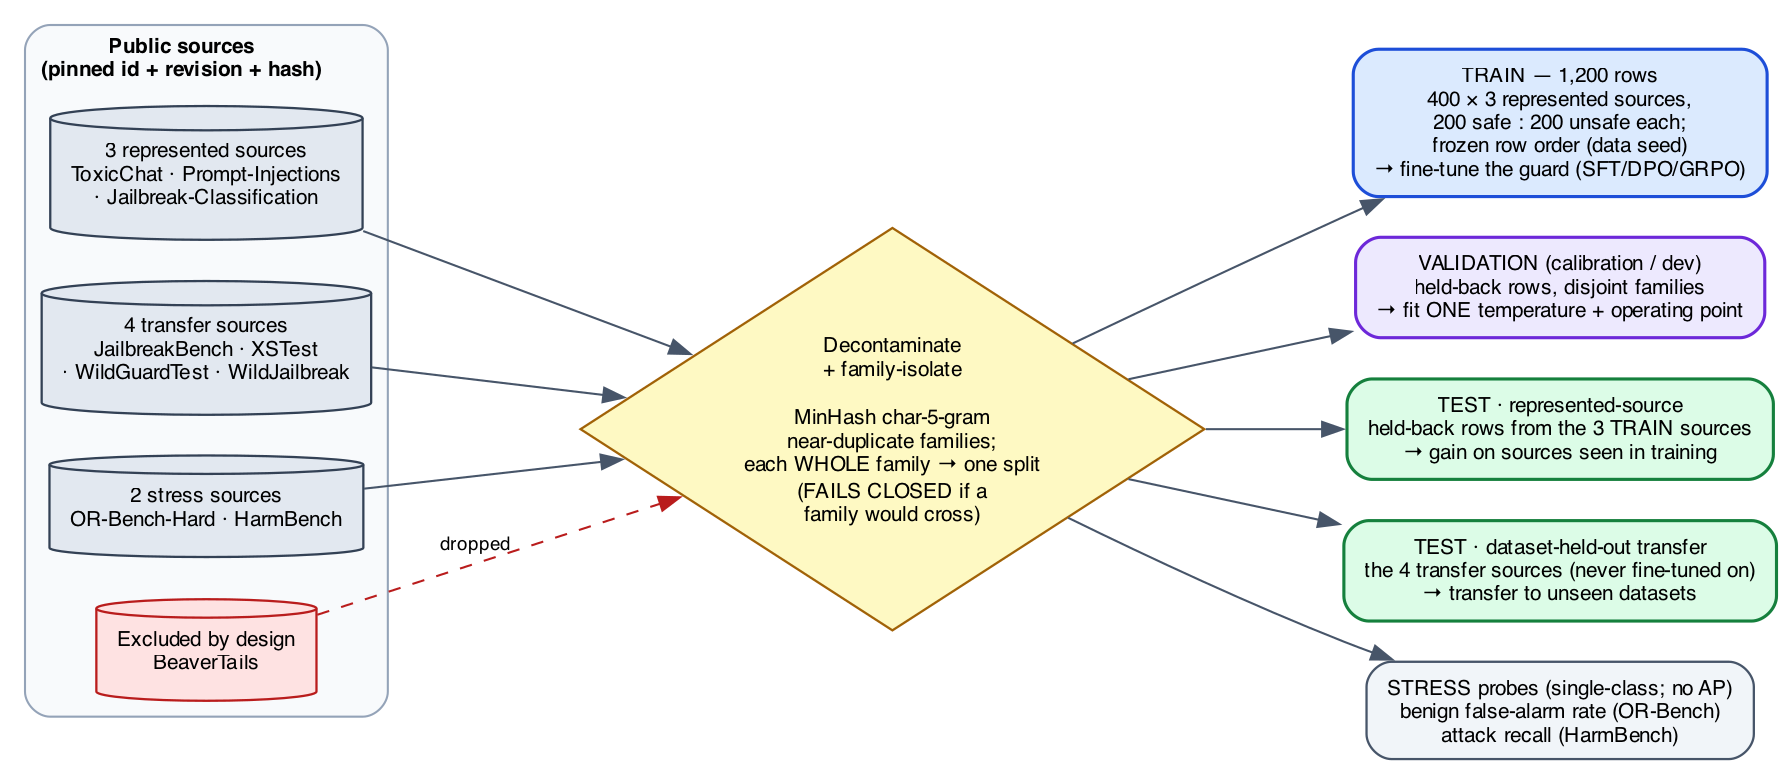
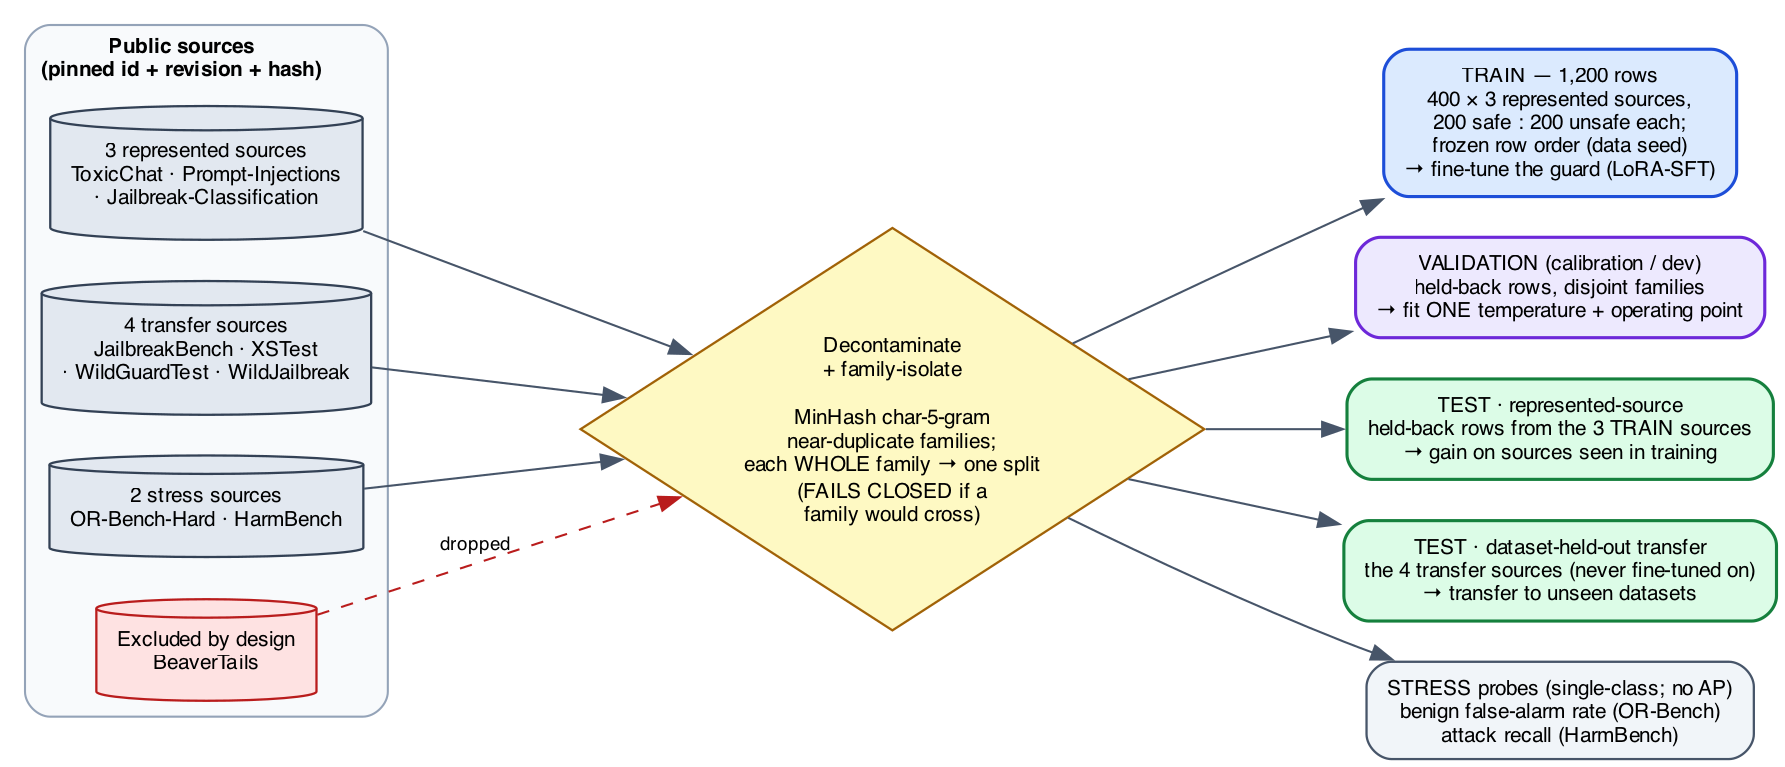
paper: apply external-review fixes (factual errors, overstated claims, transparency)
Cross-checked two independent model reviews against the data/tables and applied
every verified point (deferring only items needing new compute/data).

Factual errors (confirmed against committed tables, then fixed):
- Seed membership: the 5 uniform-gain seeds are 4 SmolLM2 + Qwen2.5 s42 (not
  "the SmolLM2 seeds"); SmolLM2 s46 specializes. Corrected in the plane text and
  the attractor box, which now notes 2/20 seeds cross the checkpoint boundary.
- Mortgage "AP.D at or above AP.G" is false for Qwen3-4B (AP.G=1.000) -> "for
  three of the four checkpoints."
- Stale draft leftovers: "Acts III and IV" -> "II and III"; act3 subsection
  "what Act III does not establish" -> "Act II"; "four acts" -> "three";
  flowchart "SFT/DPO/GRPO" -> "LoRA-SFT"; "four literatures" -> "five".
- Rendered "Paper A/Paper B" -> "Act I/II" (repro prose, latency caption,
  availability paragraph).

Overstated claims hedged:
- Abstract: "fully reproducible" -> "reproducible"; "pulls every model" -> "each
  model on this panel"; composition "for free" -> "without retraining (second
  pass)"; "general guards" -> "instruction models used zero-shot as guards";
  ExpGuard winner noted as CI-tied with Qwen3-4B.
- RQ3 reworded to what is tested (zero-shot domain coverage, not tuned-guard
  survival). Contribution 3: mechanism "made explicit" -> SFT+SFT control +
  candidate mechanism, motivation not proof. Label-noise 1.3-eta marked a rule
[…]

Changed region(s): [[0.7395, 0.06, 1.0, 0.2699]]

diff --git a/papers/unified-report/unified_report.tex b/papers/unified-report/unified_report.tex
@@ -82,7 +82,7 @@ decays under sub-standard-deviation drift; and at realistic ($\sim\!1\%$) preval
 and the very \emph{ranking} of guards reorders.
 
 \smallskip
-\noindent\textbf{What we propose.} A disciplined, fully reproducible way to measure what a guard's
+\noindent\textbf{What we propose.} A disciplined, reproducible way to measure what a guard's
 fine-tune actually bought --- and to choose guards for regulated products. On one fixed panel of four
 compact checkpoints (Qwen2.5-1.5B, SmolLM2-1.7B, SmolLM3-3B, Qwen3-4B) we compare each guard only against
 its \emph{own} pre-tuning base on identical data (so a change is attributable to the fine-tune, not to a
@@ -95,10 +95,12 @@ expert-labeled finance/health/law set (ExpGuard, 2{,}275 rows).
 \smallskip
 \noindent\textbf{What we find.} Fine-tuning \emph{specializes} but does not transfer: it lifts
 familiar-data ranking to a near-common ceiling ($\approx\!0.98$; $\RepDelta$ on average) yet changes
-held-out transfer by only $\TransferDelta$ on average --- an \emph{attractor} that pulls every model to a
-benchmark-fixed endpoint, so ``stronger bases specialize more'' is arithmetic, not skill. Composition
-recovers much of the lost transfer for free ($\PilotTransferDeltaSFT$ over the fine-tune). And a
-general-safety score does not cover domain compliance: general guards rank mortgage violations only
+held-out transfer by only $\TransferDelta$ on average --- on this four-checkpoint panel an \emph{attractor}
+pulls each model toward a benchmark-fixed endpoint, so ``stronger bases specialize more'' is largely
+arithmetic, not skill. Composition recovers much of the lost transfer without retraining
+($\PilotTransferDeltaSFT$ over the fine-tune, at the cost of a second inference pass). And a
+general-safety score does not cover domain compliance: general-purpose instruction models, used zero-shot as
+guards, rank mortgage violations only
 moderately and their fairness varies widely, and the top-ranked finance/health/law guard (SmolLM3-3B at
 AP $0.956$, statistically tied with the larger Qwen3-4B) is \emph{not} the largest model and \emph{not} the
 guard the mortgage benchmark prefers --- the winner flips with the benchmark.
@@ -160,7 +162,7 @@ verdict} --- and three questions on a single shared panel of checkpoints:
 \begin{enumerate}[leftmargin=1.6em,itemsep=1pt]
   \item \textbf{Does fine-tuning transfer?} (\Cref{sec:actI}) --- or does the guard specialize to its training sources?
   \item \textbf{Can we recover transfer without retraining?} (\Cref{sec:actIII}) --- by composing base $+$ adapter.
-  \item \textbf{Does any of it survive a change of domain?} (\Cref{sec:actIV}) --- across law, finance, health, and mortgage.
+  \item \textbf{Does a general-safety score cover a regulated domain?} (\Cref{sec:actIV}) --- evaluated \emph{zero-shot} across law, finance, health, and mortgage.
 \end{enumerate}
 
 \paragraph{What is new here.} Prior work shows fine-tuning can weaken safety behavior
@@ -173,11 +175,12 @@ domains. Concretely, the novel contributions are:
 \begin{enumerate}[leftmargin=1.7em,itemsep=1pt]
   \item \textbf{A paired estimand} that cleanly separates represented-source gain from held-out transfer,
   with a fixed-panel hierarchical bootstrap (\Cref{sec:actI}).
-  \item \textbf{The ``attractor'' finding:} SFT drives every checkpoint to a benchmark-fixed endpoint, so
-  the popular reading ``stronger bases specialize more'' is arithmetic; the sharper, falsifiable claim is
-  \emph{endpoint invariance} (\Cref{sec:actI-coupling}).
-  \item \textbf{A retraining-free composition operator} that recovers transfer as an ensemble diversity
-  gain, with the mechanism (base-correlated adapter errors) made explicit (\Cref{sec:actIII}).
+  \item \textbf{The ``attractor'' finding:} on this panel SFT drives each checkpoint toward a benchmark-fixed
+  endpoint, so the popular reading ``stronger bases specialize more'' is largely arithmetic; the sharper,
+  falsifiable claim is \emph{endpoint invariance} (\Cref{sec:actI-coupling}).
+  \item \textbf{A retraining-free composition operator} that recovers transfer, with an equal-cost SFT+SFT
+  control isolating the base's contribution (\Cref{tab:sftsft}) and a candidate diversity mechanism
+  (base-correlated adapter errors) --- reported as motivation, not proof (\Cref{sec:actIII}).
   \item \textbf{A dual-labeled, HMDA-grounded mortgage benchmark} ($G\times D$) with a protected-class
   fairness-invariance gate, plus an external, expert-annotated finance/health/law replication
   (\Cref{sec:actIV}).
@@ -265,7 +268,7 @@ and benchmark rank are distinct axes. AP is shown on a zoomed $[0.80,1.00]$ scal
 \label{sec:synthesis}
 The three acts are one lesson. A guard's benchmark score is co-produced by the benchmark: SFT buys
 represented-source ranking, not transfer (Act~I); keeping the base in an output-space average
-\emph{recovers} some transfer for free of retraining, though not a threshold (Act~II); and a change of
+\emph{recovers} some transfer without retraining (at a second inference pass), though not a threshold (Act~II); and a change of
 domain can hide the violation entirely, so regulated domains need domain-grounded evaluation and a
 fairness gate (Act~III).
 The recurring cast makes it concrete: Qwen3-4B, the strongest base, specializes the most on transfer,
@@ -342,22 +345,32 @@ Operational coupling & self-contained; pinned, versioned, auditable in-house & e
 \section{Reproducibility}
 \label{sec:repro}
 Every number above is \code{\textbackslash input} from a committed generated table bound to a lock ---
-none is hand-typed. A single entry point, \code{make reproduce} (\code{papers/unified-report/reproduce.py}),
-regenerates all tables/figures from committed per-row scores by calling each study's analysis (Paper A in
-its lock-pinned env; Paper B, mortgage, and ExpGuard from committed scores), and asserts
-byte-identity with the committed report tables. It needs no GPU and no network; only re-training the
-guards or re-scoring the gated ExpGuard set requires a GPU / dataset access. Raw third-party rows are
-referenced by pinned identifier + revision + content hash, not redistributed.
+none is hand-typed. A single entry point, \code{make reproduce} (run in \code{papers/unified-report/}, which
+calls \code{reproduce.py}; distinct from the repo-root \code{make repro} that re-verifies the release cache),
+regenerates all tables/figures from committed per-row scores by calling each study's analysis (the Act~I
+specialization tables in a lock-pinned environment; the Act~II composition, mortgage, and ExpGuard tables
+from committed scores in any environment), and asserts byte-identity with the committed report tables.
 
-\paragraph{Code and data availability.} All code, data manifests, generated tables, and the frozen
-benchmark are public at \url{https://github.com/rrahimi-uci/guard-ranking-fragility}. The one-command
-pipeline is \code{papers/unified-report/reproduce.py} (\code{make reproduce}); the frozen, dual-labeled
-mortgage benchmark ships at \code{mortgage-benchmark/benchmark/v1\_hmda2022/} (994 rows,
+\paragraph{Three reproducibility tiers, kept distinct.} \textbf{(i) Analysis reproducibility} --- regenerating
+every table and figure from the committed per-row scores --- is what \code{make reproduce} verifies
+byte-for-byte, with no GPU and no network, and is the tier every number in this report meets.
+\textbf{(ii) Training/scoring reproducibility} --- re-deriving those per-row scores by training the $4\times5$
+adapters and rescoring --- requires a GPU and pinned model/data access (only re-scoring the gated ExpGuard
+set additionally needs dataset access). \textbf{(iii) Artifact-generation reproducibility} --- regenerating
+the mortgage benchmark itself --- is \emph{not} claimed: its LLM construction stages run at nonzero
+temperature and the set is intentionally frozen, so only its \emph{evaluation} reproduces, not its
+generation. Raw third-party rows are referenced by pinned identifier + revision + content hash, not
+redistributed.
+
+\paragraph{Code and data availability.} \begin{sloppypar}All code, data manifests, generated tables, and
+the frozen benchmark are public at \url{https://github.com/rrahimi-uci/guard-ranking-fragility}. The
+one-command pipeline is \code{papers/unified-report/reproduce.py} (\code{make reproduce}); the frozen,
+dual-labeled mortgage benchmark ships at \code{mortgage-benchmark/benchmark/v1\_hmda2022/} (994 rows,
 SHA-256-checksummed, with a text-free index); the committed per-row guard scores that regenerate every
-number live under \code{artifacts/} (Paper~A in \code{artifacts/paper\_a\_sft\_v2/}, the mortgage baseline
-in \code{mortgage-benchmark/out\_eval/}, and the finance/health/law scores in
+number live under \code{artifacts/} (the Act~I/II scores in \code{artifacts/paper\_a\_sft\_v2/}, the
+mortgage baseline in \code{mortgage-benchmark/out\_eval/}, and the finance/health/law scores in
 \code{artifacts/expguard\_external/}); and the figures are built by
-\code{papers/unified-report/figures/make\_figures.py}.
+\code{papers/unified-report/figures/make\_figures.py}.\end{sloppypar}
 
 \section{Conclusion}
 \label{sec:conclusion}

diff --git a/papers/unified-report/sections/act4-mortgage.tex b/papers/unified-report/sections/act4-mortgage.tex
@@ -157,9 +157,14 @@ follows mechanically, together with an \emph{action lattice} (the ordered menu o
 allow through warn to block) and a \emph{severity} grade.
 
 The honesty caveat is load-bearing and stated plainly: \textbf{these labels are policy-card-consistent,
-assigned by an LLM judge --- they are not SME-adjudicated.} All 24 cards remain unsigned, and judge
-agreement is measured as \emph{self-consistency} (re-running the same judge and checking it agrees with
-itself), not as a human inter-rater study.
+assigned by an LLM judge --- they are not SME-adjudicated.} The judge is run rubric-bound against the
+applicable cards at temperature~$0$ with a three-sample majority vote; all 24 cards remain unsigned, and
+judge agreement is measured as \emph{self-consistency} (re-running the same judge and checking it agrees
+with itself), not as a human inter-rater study. Two transparency gaps we flag rather than resolve here: the
+frozen artifact does not record the exact judge \emph{model and version}, so its
+possible model-family overlap with an evaluated checkpoint cannot be ruled out as a source of correlated
+blind spots; and per-label self-consistency \emph{counts} were not exported, so self-consistency is asserted,
+not tabulated.
 
 \begin{background}{Policy cards, ``SME,'' and Fleiss-\texorpdfstring{$\kappa$}{kappa} --- in plain words}
 A \emph{policy card} turns a slice of mortgage law into something a program can check: a plain
@@ -209,9 +214,10 @@ The gate is a single number, the mean absolute within-pair score gap:
 \label{eq:delta-context}
 \end{equation}
 where $\mathcal{P}$ is the set of protected pairs and $p(\cdot)$ is the guard's unsafe probability. The
-target is $\Delta_{\mathrm{context}}\approx 0$: a fair guard's score is \emph{invariant} to the
-protected token alone. A nonzero value means the protected word by itself is moving the guard --- the
-signature of disparate treatment in the screening layer. This gap also has a threshold-free reading:
+target is $\Delta_{\mathrm{context}}\approx 0$: an invariant guard's score does not move with the
+protected token alone. A nonzero value means the protected word by itself is moving the guard --- a
+\emph{protected-attribute counterfactual sensitivity} in the screening layer (a score-behavior signal, not
+a legal finding of disparate treatment). This gap also has a threshold-free reading:
 for one pair, $|p(x_a)-p(x_b)|$ is exactly the fraction of possible decision cutoffs at which the protected
 token \emph{alone} flips the verdict, so $\Delta_{\mathrm{context}}$ is the pair-averaged
 \emph{decision-flip rate} (the worst observed pair, $0.51$, flips on a majority of feasible operating
@@ -242,7 +248,8 @@ a domain-fine-tuned arm is future work.
 split (75 G0/D1, 6 G1, 3 protected pairs). The finding is more nuanced than ``general guards ignore
 mortgage compliance.'' \emph{Threshold-free}, the base guards rank $D$-violations only
 \textbf{moderately} well --- $\text{AP}\cdot D$ between $0.67$ and $0.85$, at or above their
-$\text{AP}\cdot G$. Soliciting discrimination or fraud reads as ``unsafe'' to a general instruction
+$\text{AP}\cdot G$ for three of the four checkpoints (Qwen3-4B is the exception, with $\text{AP}\cdot
+G=1.000$ off only $6$ $G$-positives --- a noisy small-sample value, see below). Soliciting discrimination or fraud reads as ``unsafe'' to a general instruction
 model even when it is not a jailbreak, so in practice \textbf{$G$ and $D$ are only \emph{partially}
 orthogonal}: strictly orthogonal would mean the general-safety label carries no information about the
 mortgage-policy label, and here they overlap more than that. But no guard reaches $\text{AP}\cdot D$

diff --git a/papers/unified-report/sections/act1.tex b/papers/unified-report/sections/act1.tex
@@ -126,8 +126,9 @@ change (vertical). Four quadrants have direct meaning: lower-right = represented
 upper-left = transfer-favoured. \SpecializationSeedCount{} of \TotalSeedCount{} guards land in the
 specialize quadrant, \UniformGainSeedCount{} in uniform gain, and \emph{none} in uniform loss or the
 transfer-favoured quadrant. So specialization is the dominant --- but not universal --- outcome: the
-five uniform-gain points are the SmolLM2 seeds, the one checkpoint weak enough on transfer to have room
-to improve there too. The absence of any uniform-loss point matters: SFT never simply degrades the
+five uniform-gain points are four of the five SmolLM2 seeds \emph{plus} Qwen2.5's seed~42 --- concentrated
+on the two checkpoints with the weakest base transfer, which have the most room to improve there (SmolLM2's
+remaining seed, 46, narrowly specializes at $-0.001$). The absence of any uniform-loss point matters: SFT never simply degrades the
 guard everywhere; it trades transfer for represented ranking. Per-seed values behind the plane are
 tabulated in \Cref{tab:seed-values}, and show the effect is stable within each checkpoint (e.g. every
 Qwen3-4B seed is a substantial transfer loss, every SmolLM2 seed a represented gain).
@@ -185,7 +186,7 @@ point plus single-class stress diagnostics (lower). Generated from the lock-boun
 Read together, the operating point says the specialized guard \emph{catches more of what it trained on,
 raises more false alarms on what it didn't, and misses more hard attacks}. A leaderboard number computed
 on represented sources would advertise only the first of these three. The threshold that looked safe in
-calibration is not the threshold you get in the field --- a theme Acts~III and~IV return to.
+calibration is not the threshold you get in the field --- a theme Acts~II and~III return to.
 \end{takeaway}
 
 \subsection{The attractor: post-SFT scores are benchmark-fixed, so ``stronger bases specialize more'' is arithmetic}
@@ -236,7 +237,9 @@ residual is exactly that approximation, made visible.
 
 \begin{background}{Why the represented ceiling is $\approx0.98$, not $1.0$ --- and why that helps the thesis}
 A perfect ranker cannot score AP $=1$ on a benchmark whose \emph{labels} are slightly noisy: a small rate
-$\eta$ of ambiguous or mislabeled rows caps the achievable AP at roughly $1-1.3\,\eta$. The observed common
+$\eta$ of ambiguous or mislabeled rows caps the achievable AP at roughly $1-1.3\,\eta$ (the coefficient
+$1.3$ is an order-of-magnitude rule of thumb, not derived here --- the exact factor depends on prevalence
+and on where mislabels fall in the ranking). The observed common
 ceiling $0.982$ is what you would see at $\eta\approx1.5\%$ label noise --- i.e.\ the ceiling would then be a
 property of the benchmark's \emph{labels}, not of the models. This is a \emph{hypothesis}, not a measured
 result: it is checkable by auditing the top-ranked ``false positives'' of the SFT guards --- under this
@@ -248,10 +251,13 @@ and is shared across checkpoints; the benchmark, not the model, sets the top of 
 \begin{takeaway}{How much to trust the ``base strength'' ordering}
 The apparent trend rests on \emph{four} checkpoints --- and because seeds within a checkpoint are highly
 correlated (every Qwen3-4B seed is negative, every SmolLM2 seed but one positive), the effective sample is
-$n=4$, not $20$. But the attractor turns the $15/20$ ``specialize'' count into a \emph{prediction} from a
+$n=4$, not $20$. But the attractor turns the checkpoint-level ``specialize'' pattern into a \emph{prediction} from a
 single constant: a checkpoint specializes exactly when its base transfer score exceeds the endpoint
-($\text{base}_T>A_T\approx0.81$), which selects Qwen2.5, SmolLM3 and Qwen3-4B (15 seeds) and leaves SmolLM2
-in uniform-gain (5 seeds) --- the split we observe. The sharper, falsifiable hypothesis to carry forward is
+($\text{base}_T>A_T\approx0.81$), which selects Qwen2.5, SmolLM3 and Qwen3-4B as specializers and leaves
+SmolLM2 in uniform-gain --- the checkpoint-mean split we observe, and a $15/5$ seed count. The match is at
+the checkpoint mean, not seed-perfect: two of the twenty seeds cross their checkpoint's boundary (Qwen2.5's
+seed~42 gains $+0.008$; SmolLM2's seed~46 loses $-0.001$), so the constant predicts the aggregate split
+rather than every individual seed. The sharper, falsifiable hypothesis to carry forward is
 therefore \emph{endpoint invariance} itself: any new $1.5$--$4$B instruct checkpoint tuned with this recipe
 should land near represented $0.98$ and transfer $0.81$ regardless of where its base started. One honest
 limit on this extrapolation: our four checkpoints are only \emph{two} lineages (two Qwen, two SmolLM), so

diff --git a/papers/unified-report/figures/make_figures.py b/papers/unified-report/figures/make_figures.py
@@ -239,17 +239,14 @@ def mortgage_baseline():
     ax1.set_title("Zero-shot ranking (AP)")
     # legend below ax1 so it clears the (2-line) guard labels and never sits over a bar
     ax1.legend(frameon=False, fontsize=8, loc="upper center", bbox_to_anchor=(0.5, -0.20), ncol=2)
-    thr = 0.1
-    ax2.bar(list(x), dctx, 0.5, color=[RED if v > thr else GREY for v in dctx])
-    ax2.axhline(thr, color=RED, lw=0.9, ls=":")
-    ax2.text(len(tbl) - 0.5, thr, "  gap $>0.1$\n  (flagged)", ha="right", va="bottom",
-             fontsize=6.5, color=RED)
+    # no pass/fail threshold line: Delta_context is a signal, not a verdict (see text); bars are neutral
+    ax2.bar(list(x), dctx, 0.5, color=BLUE)
     ax2.set_xticks(list(x)); ax2.set_xticklabels(labels, fontsize=7.5)
-    ax2.set_ylabel("$\\Delta_{\\mathrm{context}}$  (0 = fair)")
-    ax2.set_ylim(0, max(dctx + [thr]) * 1.35)
-    ax2.set_title("Protected-pair gap")
+    ax2.set_ylabel("$\\Delta_{\\mathrm{context}}$  (0 = score-invariant)")
+    ax2.set_ylim(0, max(dctx) * 1.35)
+    ax2.set_title("Protected-pair gap ($n{=}3$ pairs)")
     for i, v in enumerate(dctx): ax2.text(i, v + 0.004, f"{v:.3f}", ha="center", va="bottom", fontsize=7)
-    fig.suptitle("Act III: general guards rank mortgage violations only moderately, and fairness varies",
+    fig.suptitle("Act III: instruction models (zero-shot) rank mortgage violations only moderately; protected-pair sensitivity varies (n=3)",
                  fontsize=10.5, y=1.00)
     fig.subplots_adjust(top=0.84, bottom=0.28, wspace=0.34, left=0.085, right=0.985)
     fig.savefig(HERE / "fig_mortgage_baseline.pdf", metadata={"CreationDate": None}); plt.close(fig)

diff --git a/papers/unified-report/sections/background-setup.tex b/papers/unified-report/sections/background-setup.tex
@@ -3,7 +3,7 @@
 
 This report is written to be read by someone with a first course in statistics, a working idea of
 what fine-tuning a small language model means, and a lay familiarity with mortgage lending. Everything
-technical the four acts rely on is defined once here, from the ground up, with the exact equations and
+technical the three acts rely on is defined once here, from the ground up, with the exact equations and
 a worked example wherever a number would otherwise be mysterious. Nothing in this section reports a
 result; it is the vocabulary.
 
@@ -45,7 +45,8 @@ s(x) \;=\; z_{\text{unsafe}}(x,t) \;-\; z_{\text{safe}}(x,t),
 \end{equation}
 which is positive when the model leans \code{unsafe}, negative when it leans \code{safe}, and near zero
 when it is undecided. To read $s(x)$ as a probability we pass the same two logits through a two-way
-softmax,
+softmax --- giving, strictly, the probability of \code{unsafe} \emph{conditional on the verdict being one
+of the two tokens} $\{$\code{safe}$,$\code{unsafe}$\}$, not the model's full next-token distribution:
 \begin{equation}
 \label{eq:prob}
 p(\text{unsafe}\mid x) \;=\; \frac{\exp\!\big(z_{\text{unsafe}}\big)}{\exp\!\big(z_{\text{safe}}\big)+\exp\!\big(z_{\text{unsafe}}\big)}.
@@ -227,7 +228,7 @@ $z_{\text{unsafe}}-z_{\text{safe}}$ head (\Cref{eq:score}) and the same tie-awar
 fail-closed provenance \emph{locks} that bind the data, code, and software versions and refuse to run
 if any fingerprint mismatches. This single-panel, single-manifest discipline is what makes SFT,
 composition, and the domain evaluations \emph{directly comparable} rather than stapled
-results. The \emph{same} four checkpoints recur across all four acts, and \textbf{Qwen3-4B is the
+results. The \emph{same} four checkpoints recur across all three acts, and \textbf{Qwen3-4B is the
 recurring character}: the strongest base, and --- as the acts will show --- the one that specializes
 most, the one composition helps least, and the best-and-fairest zero-shot mortgage guard.
 
@@ -411,7 +412,13 @@ stress surface. The build \emph{fails closed} if any family crosses a forbidden 
 graph also supplies the Poisson(1) re-count weights used by the bootstrap (\Cref{sec:bg-estimand}). An
 independent audit of $24$ hard assertions covers the source exclusions, schema and row identity,
 exact and conflicting-label overlap, pinned revisions and content hashes, selection provenance, family
-disjointness, licenses, and near-duplicate dispositions.
+disjointness, licenses, and near-duplicate dispositions. This is a \emph{build-time} gate (family isolation
+plus the $24$ assertions), and it is distinct from the \emph{formal retrospective overlap audit} of the
+manifest against the current v2 transfer suite, which remains \emph{pending} (\Cref{sec:not-establish}): the
+gate guarantees no near-duplicate family straddles a split within the constructed graph, but a from-scratch
+n-gram / near-duplicate check of the $1{,}200$-row manifest against the v2 transfer benchmarks has not yet
+been run --- and any residual overlap it found would make specialization look \emph{milder}, so this is a
+caveat in the direction of caution.
 
 \subsection{Estimands and the statistical protocol}
 \label{sec:setup-stats}

diff --git a/papers/unified-report/reproduce.py b/papers/unified-report/reproduce.py
@@ -184,8 +184,10 @@ def _emit_latency_tex(df, device, batch) -> str:
                      for mk in _LAT_ORDER if (df.model_key == mk).any())
     allrow = row("\\textbf{All four}", df["latency_ms"])
     cap = ("Guard inference latency --- one forward pass to the single-token verdict (no autoregressive "
-           "generation), per-row at batch size %s on %s (bf16), over the %s committed Paper~A score rows. "
-           "Latency scales with model size and prompt length, not with any decode budget." %
+           "generation), per-row at batch size %s on %s (bf16), over the %s committed Act~I/II score rows. "
+           "These are batched per-row times (throughput-latency under load), not single-request batch-1 "
+           "serving latency, and composition (Act~II) needs two passes. Latency scales with model size and "
+           "prompt length, not with any decode budget." %
            (batch, device, f"{len(df):,}"))
     return ("% GENERATED by reproduce.py from artifacts/paper_a_sft_v2/scores/scores.parquet\n"
             "\\begin{table}[H]\\centering\\small\n"

diff --git a/mortgage-benchmark/tools/emit_baseline_tex.py b/mortgage-benchmark/tools/emit_baseline_tex.py
@@ -40,7 +40,9 @@ def main() -> int:
         "as unsafe even without a jailbreak, so G and D are only partially orthogonal. "
         f"$\\Delta_{{\\mathrm{{context}}}}$ is the mean absolute protected-pair score gap (lower is more "
         f"invariant) over only $n={dc_n}$ pairs, so its magnitude is uncertain and it is read as a "
-        "direction, not a calibrated fairness estimate. The fixed 5\\%-FPR operating point is "
+        "direction, not a calibrated fairness estimate. AP$\\cdot$final equals AP$\\cdot$D on this frozen "
+        "set because the G1/D0 cell is empty (every $G$-positive row is also $D$-positive), so the composed "
+        "label reduces to $D$. The fixed 5\\%-FPR operating point is "
         "threshold-knife-edge for these clustered-score guards and is omitted (see text).}",
         "\\label{tab:baseline}",
         "\\begin{tabular}{lrrrr}", "\\toprule",

diff --git a/papers/unified-report/sections/act3.tex b/papers/unified-report/sections/act3.tex
@@ -225,7 +225,7 @@ practitioner consequence: treat an AP recovery as a reason to \emph{re-calibrate
 the target regime}, never as evidence that the old threshold is safe to reuse.
 \end{takeaway}
 
-\subsection{Ablations, and what Act III does \emph{not} establish}
+\subsection{Ablations, and what Act II does \emph{not} establish}
 \label{sec:actIII-ablations}
 
 \paragraph{The logit-average ablation (non-promotable).}

diff --git a/papers/unified-report/sections/related-work.tex b/papers/unified-report/sections/related-work.tex
@@ -1,7 +1,7 @@
 \section{Related work}
 \label{sec:related}
 
-This report sits at the intersection of four literatures: the design of small LLM-based
+This report sits at the intersection of five literatures: the design of small LLM-based
 \emph{guard classifiers}; the growing evidence that \emph{fine-tuning degrades} or narrows a
 model's safety behavior; the study of \emph{calibration and operating points} for moderation;
 \emph{model composition} in weight versus output space; and the emerging work